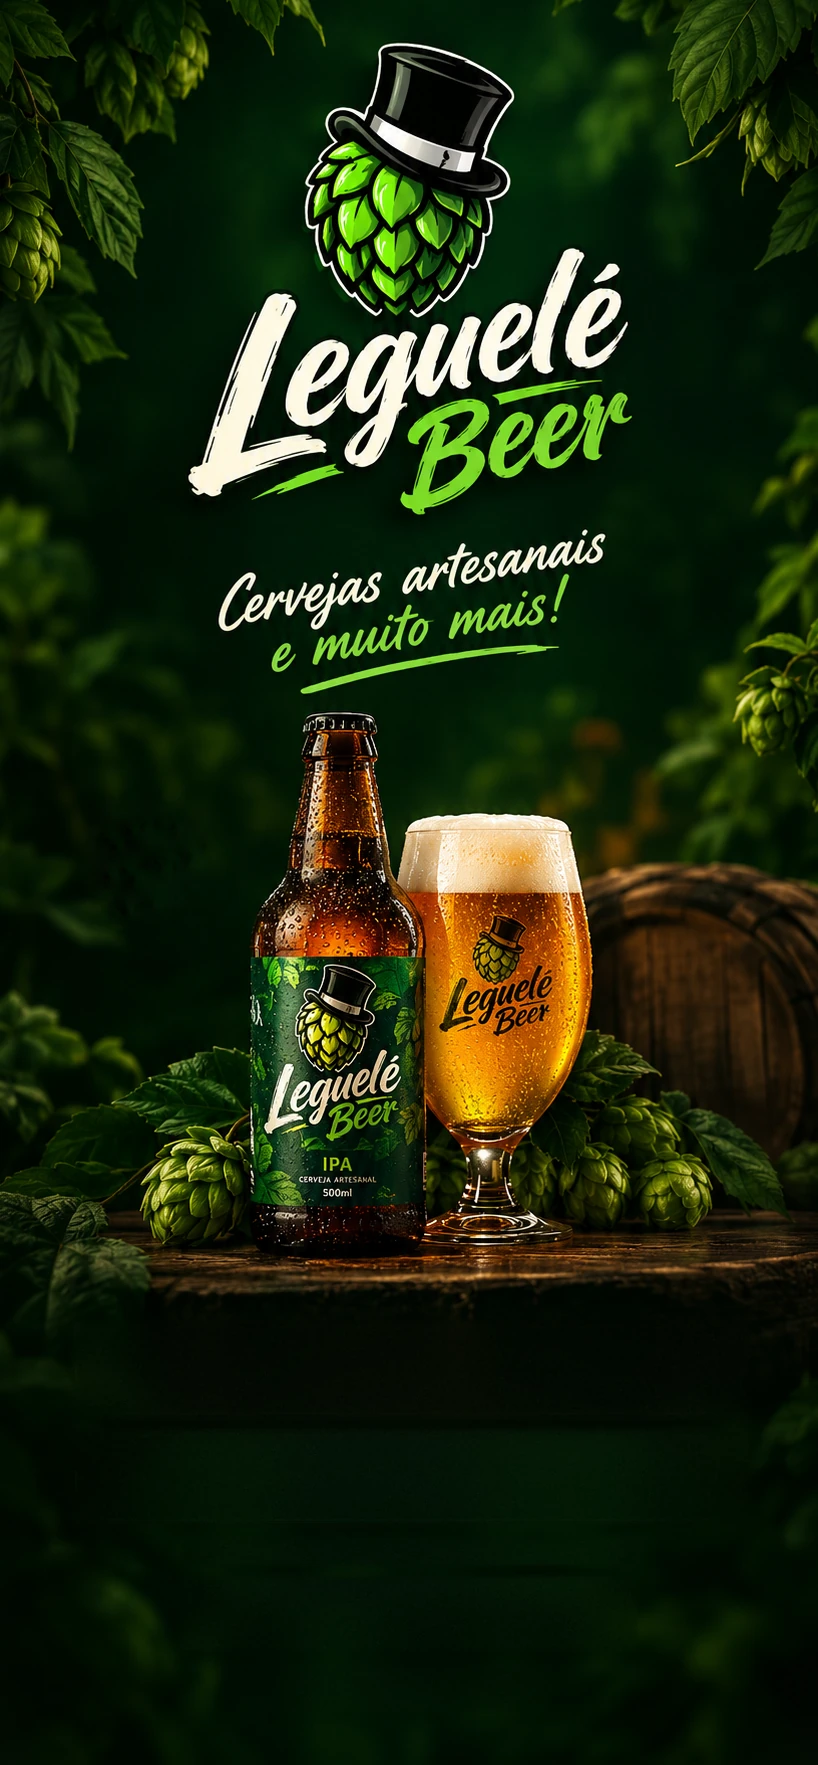
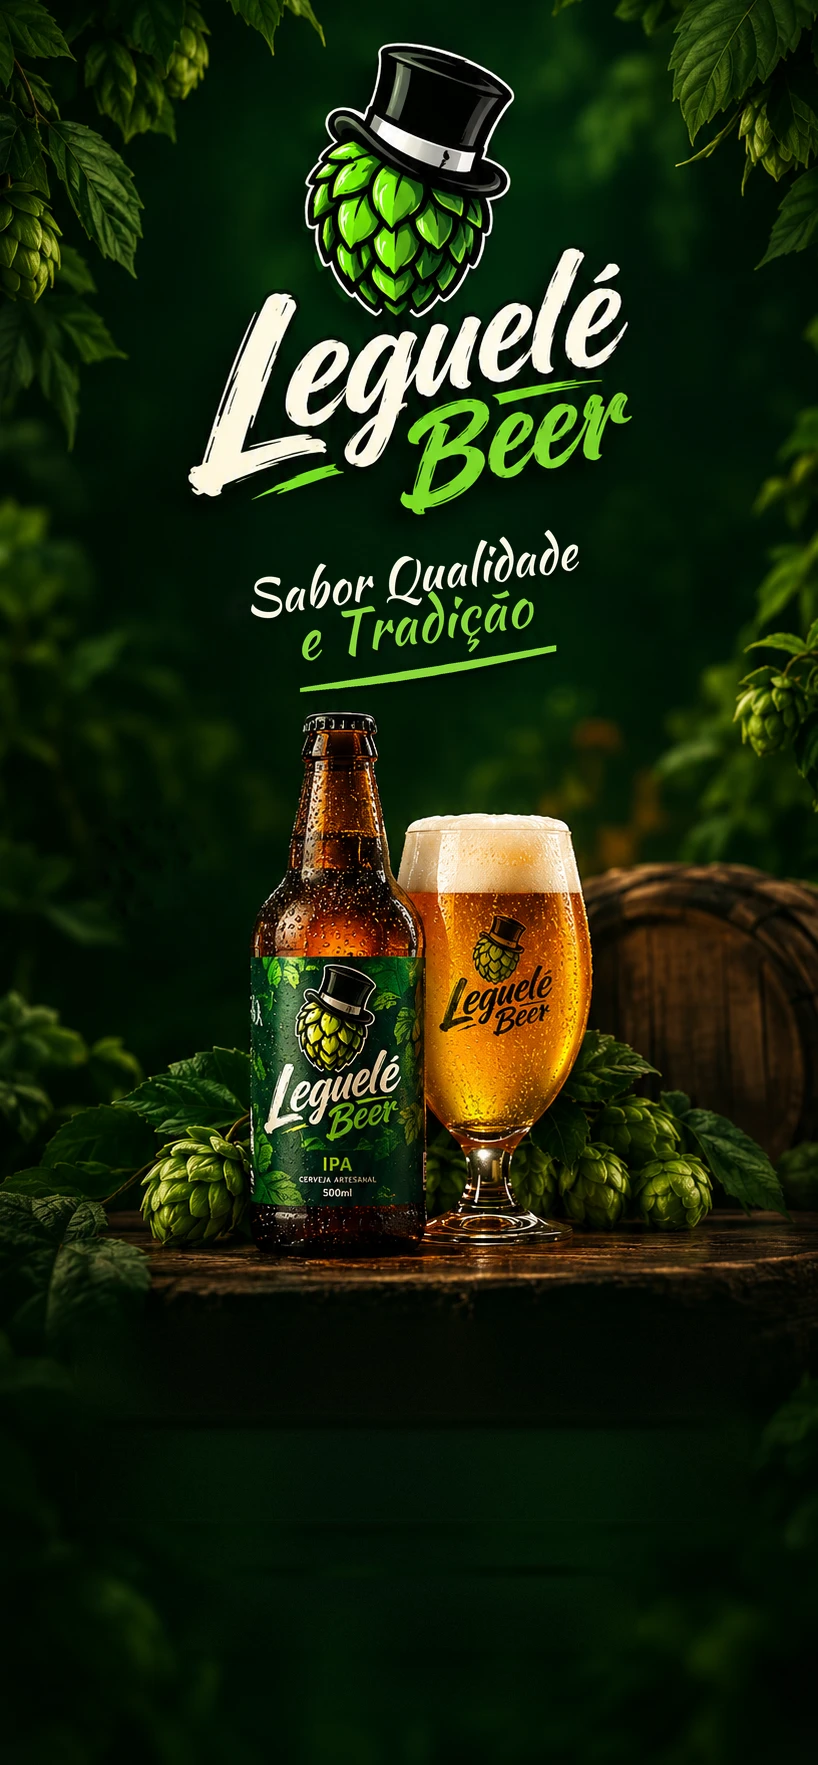
:sparkles: feat(web): troca o slogan da boas-vindas por Sabor Qualidade e Tradição (#147)
* :card_file_box: raw(web): troca o slogan desenhado na arte por Sabor Qualidade e Tradição

* :test_tube: test(web): exige o slogan Sabor Qualidade e Tradição e o texto lateral só como slogan

* :sparkles: feat(web): troca o slogan em texto da boas-vindas por Sabor Qualidade e Tradição

Changed region(s): [[0.2445, 0.2805, 0.7335, 0.4051]]

diff --git a/apps/web/src/app/boas-vindas/page.test.tsx b/apps/web/src/app/boas-vindas/page.test.tsx
@@ -7,8 +7,8 @@ describe("Boas-vindas", () => {
     render(<BoasVindas />);
 
     expect(screen.getByRole("heading", { level: 1, name: "Leguelé Beer" })).toBeInTheDocument();
-    expect(screen.getByText("Cervejas artesanais e muito mais!")).toBeInTheDocument();
-    expect(screen.queryByText("Sabor Qualidade Tradição")).not.toBeInTheDocument();
+    expect(screen.getByText("Sabor Qualidade e Tradição")).toBeInTheDocument();
+    expect(screen.queryByText("Cervejas artesanais e muito mais!")).not.toBeInTheDocument();
     expect(
       screen.getByRole("img", {
         name: "Garrafa de IPA Leguelé Beer ao lado de um copo cheio, entre folhas de lúpulo",
@@ -16,5 +16,16 @@ describe("Boas-vindas", () => {
     ).toBeInTheDocument();
     expect(screen.getAllByRole("img")).toHaveLength(1);
     expect(screen.getByRole("link", { name: "Entrar" })).toBeInTheDocument();
+  });
+
+  it("as palavras do slogan só aparecem no slogan, nunca como texto lateral", () => {
+    render(<BoasVindas />);
+
+    // O slogan é o único elemento com "Sabor"; um texto lateral seria outro elemento com essas palavras.
+    const comSabor = screen.getAllByText(/Sabor/);
+
+    expect(comSabor).toHaveLength(1);
+    expect(comSabor[0]).toBe(screen.getByText("Sabor Qualidade e Tradição"));
+    expect(comSabor[0]).toHaveClass("sr-only");
   });
 });

diff --git a/apps/web/src/app/boas-vindas/page.tsx b/apps/web/src/app/boas-vindas/page.tsx
@@ -33,7 +33,7 @@ export default function BoasVindas() {
         <h1 translate="no" className="sr-only">
           Leguelé Beer
         </h1>
-        <p className="sr-only">Cervejas artesanais e muito mais!</p>
+        <p className="sr-only">Sabor Qualidade e Tradição</p>
         <WelcomeActions />
       </div>
     </main>
